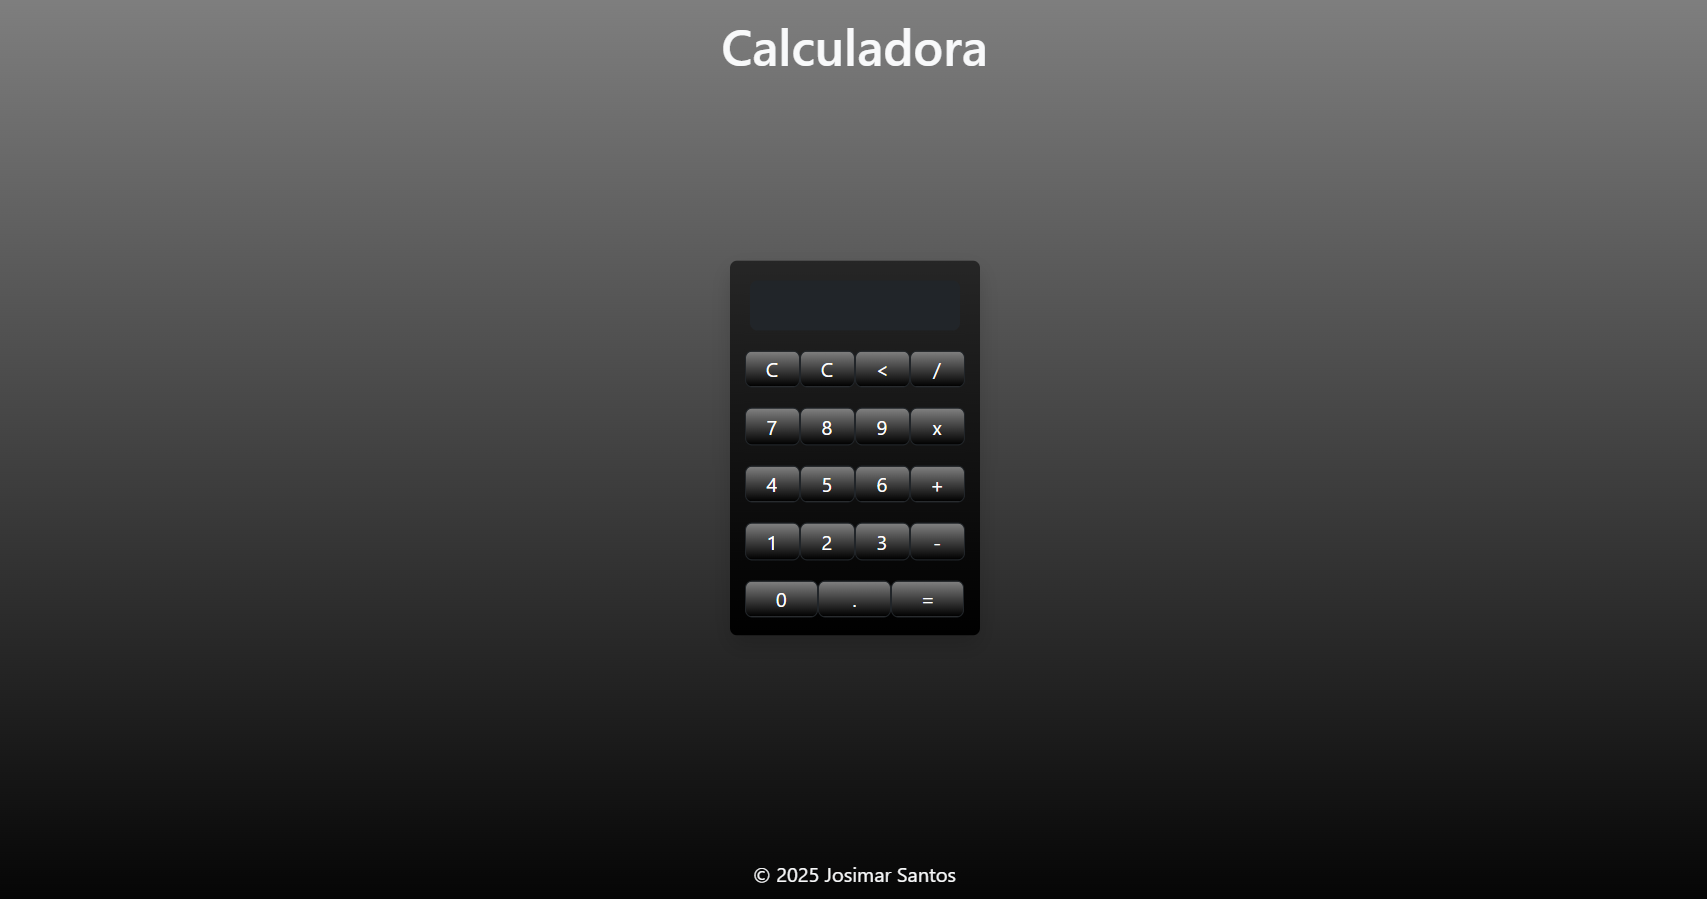
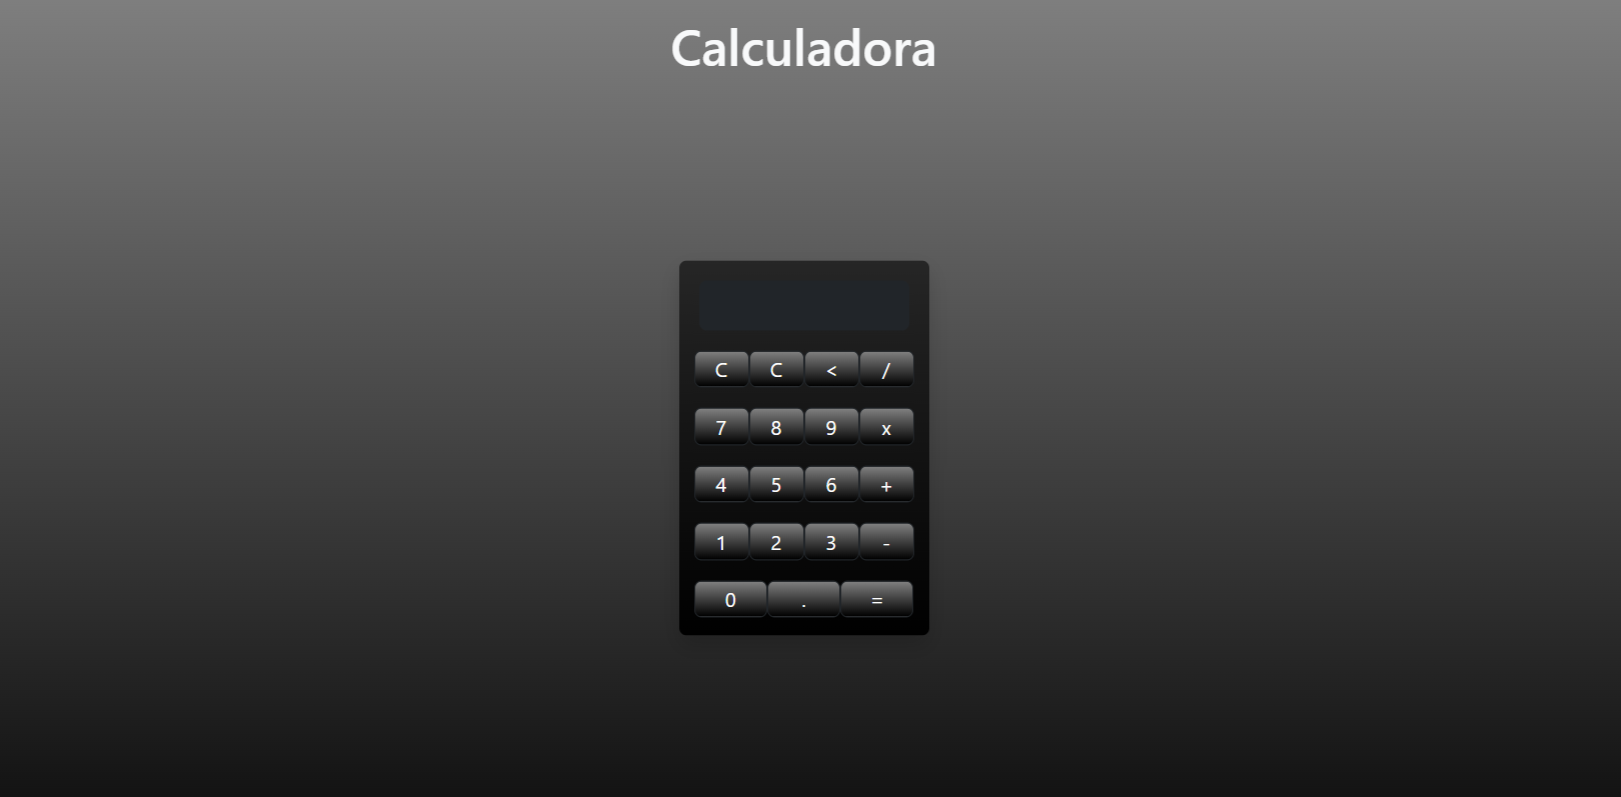
links

Changed region(s): [[0.401, 0.271, 0.5861, 0.813], [0.401, 0.0301, 0.5861, 0.0903], [0.4318, 0.9636, 0.5552, 0.9937]]

diff --git a/Perfil Pessoal - Portfólio/index.html b/Perfil Pessoal - Portfólio/index.html
@@ -40,7 +40,7 @@
     <div class="cards">
     
       <div class="card">
-        <a href="//www.google.com" target="_blank"><img src="Assets/LOGINduby.png"></a>
+        <a href="//www.google.com" target="_blank"><img src="Assets/Captura de tela 2025-05-30 110359.png"></a>
         <h4>Calculadora</h4>
         <p>JavaScript</p>
         <a href="" role="button">
@@ -48,7 +48,7 @@
         </a>
       </div>
       <div class="card">
-        <a href="//www.google.com" target="_blank"><img src="Assets/lamp.png"></a>
+        <a href="//www.google.com" target="_blank"><img src="Assets/lamp2.png"></a>
         <h4>Lâmpada</h4>
         <p>JavaScript</p>
         <a href="" role="button">
@@ -64,20 +64,18 @@
         </a>
       </div>
       <div class="card">
-        <a href="//www.google.com" target="_blank"><img src="Assets/LOGINduby.png"></a>
-        <h4>Lista de Tarefas (Quiz)</h4>
+        <a href="atividades/Quiz/INDEX.html" target="_blank"><img src="Assets/LOGINduby.png"></a>
+        <h4>Quiz</h4>
         <p>JavaScript</p>
         <a href="" role="button">
         <button>Ver mais</button>
         </a>
       </div>
       <div class="card">
-        <a href="//www.google.com" target="_blank"><img src="Assets/LOGINduby.png"></a>
+        <a href="atividades/lista_tarefas/index.html" target="_blank"><img src="Assets/listaTarefas.png"></a>
         <h4>Lista de Tarefas (Kanban)</h4>
         <p>Javascript</p>
-        <a href="" role="button">
-        <button>Ver mais</button>
-        </a>
+        <a href="" role="button"><button>Ver mais</button></a>
       </div>
       <div class="card">
         <a href="//www.google.com" target="_blank"><img src="Assets/LOGINduby.png"></a>
